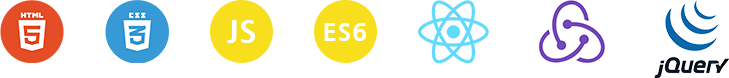
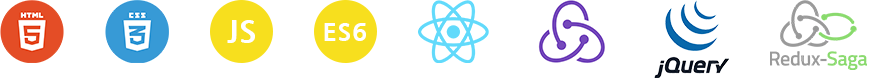
skills 수정

diff --git a/styles/style.css b/styles/style.css
@@ -442,12 +442,17 @@ section {
   height: 78px;
   background: url(../img/main_usage_skills.png) -654px 0 no-repeat;
 }
+#skills .skills_contents_wrap .main_skills ul li:nth-child(8) .main_skills_img {
+  width: 102px;
+  height: 78px;
+  background: url(../img/main_usage_skills.png) -765px 0 no-repeat;
+}
 #skills .skills_contents_wrap .main_skills ul li p {
   margin-top: 10px;
 }
 
 #skills .skills_contents_wrap .used_before ul li:nth-child(1) .used_before_img {
-  width: 104px;
+  width: 120px;
   height: 65px;
   background: url(../img/used_before.png) 0 0 no-repeat;
 }
@@ -457,19 +462,14 @@ section {
   background: url(../img/used_before.png) -155px 0 no-repeat;
 }
 #skills .skills_contents_wrap .used_before ul li:nth-child(3) .used_before_img {
-  width: 73px;
+  width: 86px;
   height: 63px;
-  background: url(../img/used_before.png) -295px 0 no-repeat;
+  background: url(../img/used_before.png) -315px 0 no-repeat;
 }
 #skills .skills_contents_wrap .used_before ul li:nth-child(4) .used_before_img {
-  width: 64px;
-  height: 63px;
-  background: url(../img/used_before.png) -401px 0 no-repeat;
-}
-#skills .skills_contents_wrap .used_before ul li:nth-child(5) .used_before_img {
-  width: 87px;
-  height: 63px;
-  background: url(../img/used_before.png) -491px 0 no-repeat;
+  width: 75px;
+  height: 68px;
+  background: url(../img/used_before.png) -450px 0 no-repeat;
 }
 
 

diff --git a/index.html b/index.html
@@ -124,6 +124,10 @@
                       <div class="main_skills_img"></div>
                       <p>jQuery</p>
                     </li>
+                    <li>
+                      <div class="main_skills_img"></div>
+                      <p>Redux-Saga</p>
+                    </li>
                   </ul>
                 </div>
                 <div class="skills_content used_before">
@@ -138,15 +142,11 @@
                     </li>
                     <li>
                       <div class="used_before_img"></div>
-                      <p>Webpack</p>
-                    </li>
-                    <li>
-                      <div class="used_before_img"></div>
-                      <p>Babel</p>
-                    </li>
-                    <li>
-                      <div class="used_before_img"></div>
                       <p>Next.js</p>
+                    </li>
+                    <li>
+                      <div class="used_before_img"></div>
+                      <p>Typescript</p>
                     </li>
                   </ul>
                 </div>
